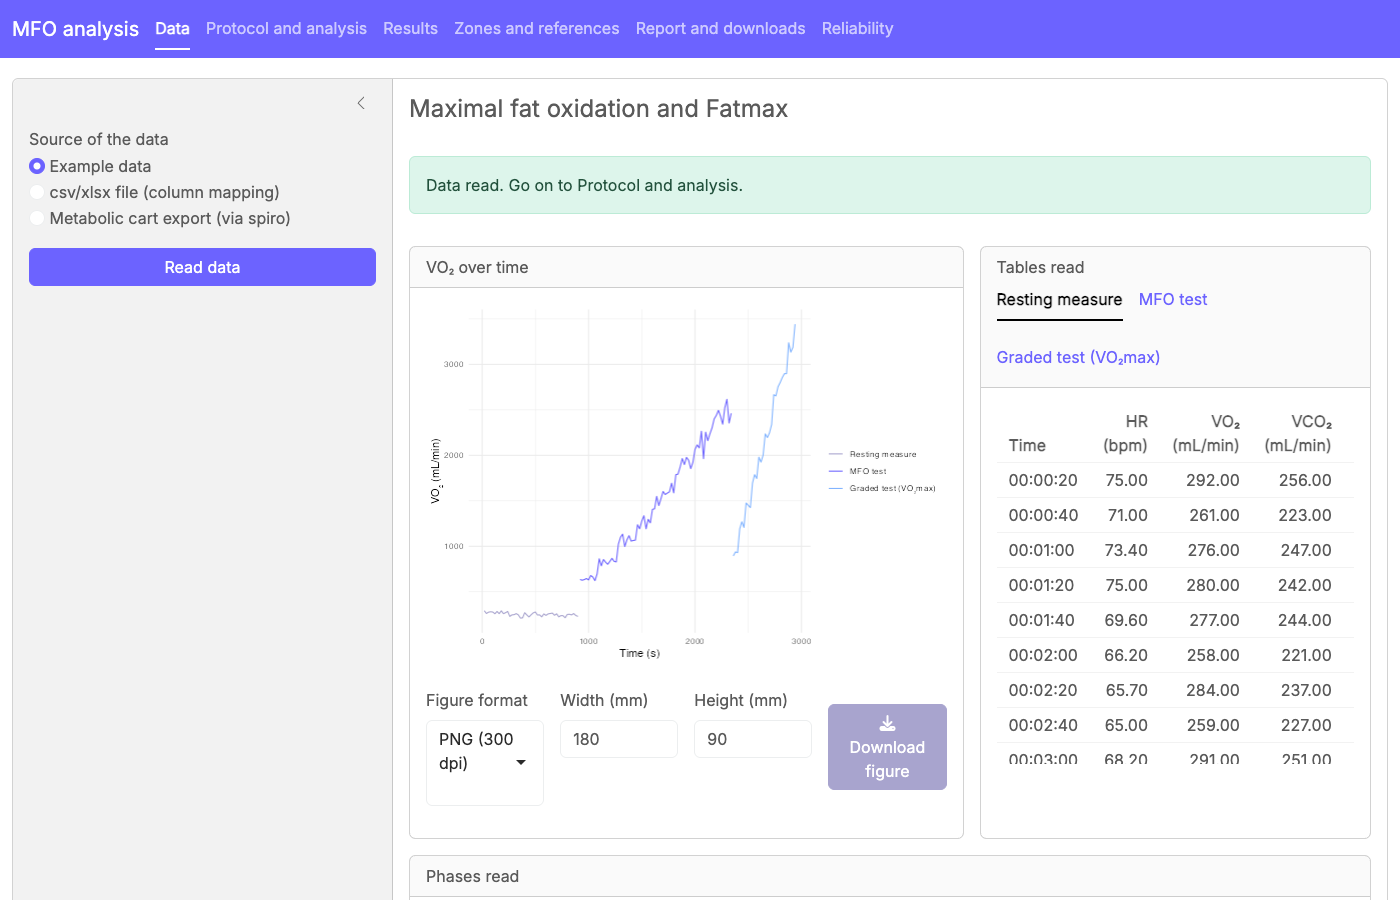
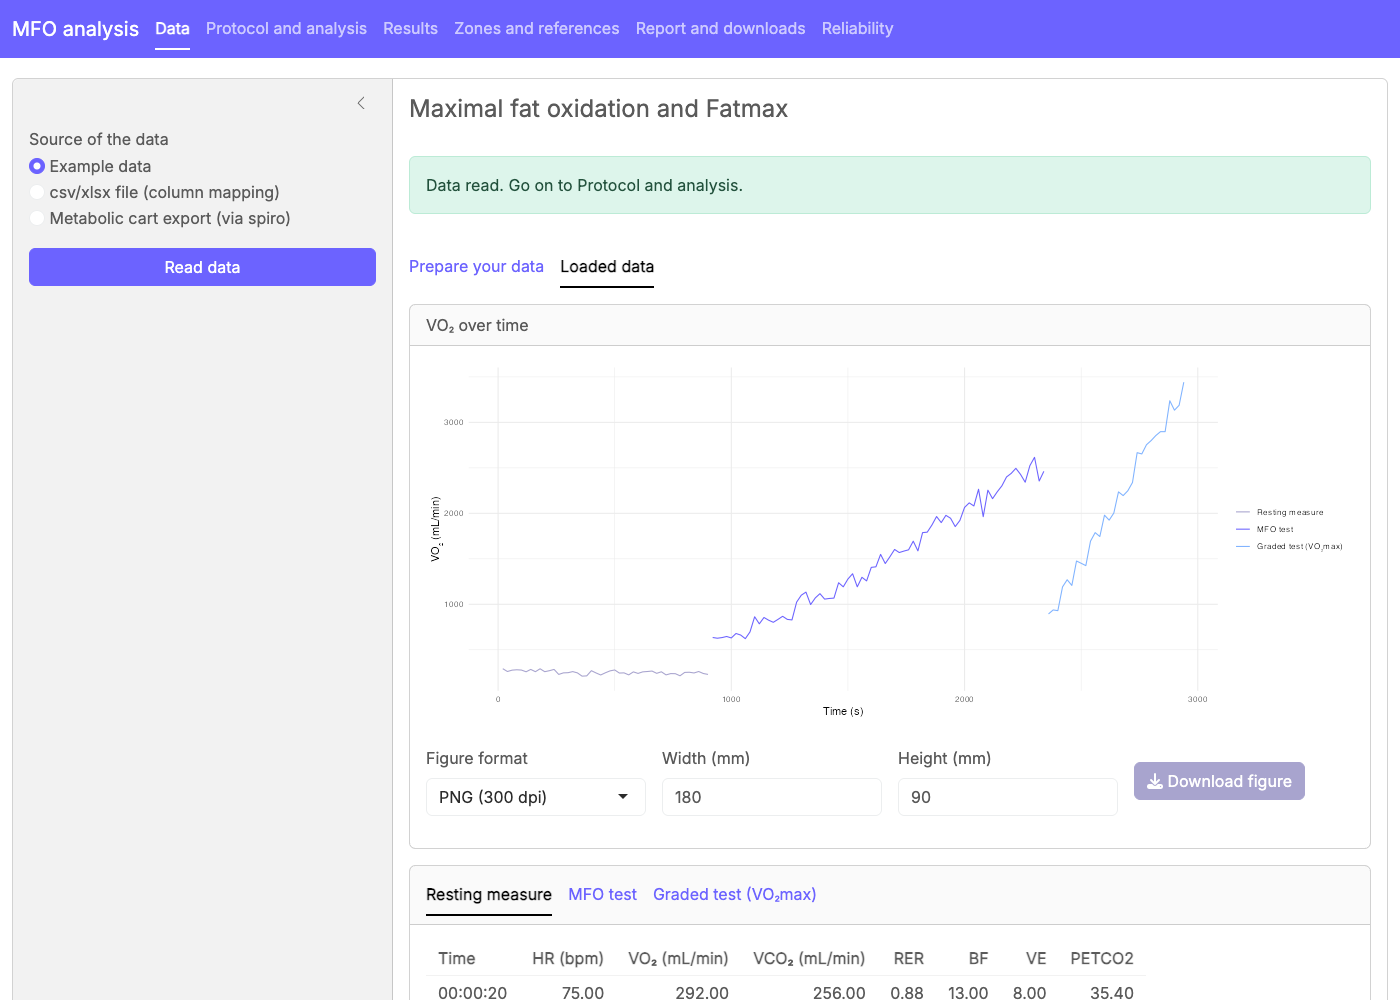
docs: manual and vignette for Prepare your data, Loaded data and Reliability
The manual explains the two tabs of Data, the three ways to bring data in
and the templates, and the required columns of an uploaded results table
in Reliability; its Reliability screenshot uploads a table with only id,
session, MFO and Fatmax. vignette("app"), NEWS and SPEC 10 likewise.
Screenshots regenerated. SPEC 10.

diff --git a/NEWS.md b/NEWS.md
@@ -26,8 +26,10 @@
   column per language, so a translation is one more column). The navbar reads "MFO analysis". The Data tab: example
   data, csv/xlsx files with column mapping or analyser exports (several
   files or a zip), phases by table or by cuts dragged on the VO2 plot, and
-  every message and warning of the reading shown as an alert, and the tables
-  read shown per phase next to the VO₂ plot. Every plot can be downloaded as
+  every message and warning of the reading shown as an alert, with two tabs:
+  "Prepare your data" (the three ways to bring data in, with an xlsx template of an individual
+  test and a csv template of results) and "Loaded data" (the VO₂ plot and
+  the tables of each phase). Every plot can be downloaded as
   PNG at 300 dpi, PDF or SVG (180 mm wide by default). The Protocol
   and analysis tab sets the arguments of `MFO_protocol()`, `MFO()` and
   `MFO_kinetics()`; the Results tab shows the curve with the steps of the
@@ -46,7 +48,9 @@
   zones and references, alerts, a methods paragraph with its references,
   and a footer with version, commit, dates, phase cuts and seed) and the
   group table as xlsx or csv. The Reliability tab runs `MFO_reliability()`
-  on the group table of the session or on a downloaded one. See
+  on the group table of the session or on an uploaded results table with
+  the columns id, session, MFO and Fatmax (other columns of `MFOs()`
+  optional). See
   `vignette("app")`, the section "Using the app" of the README, and the app
   manual on the website (every option, output and warning).
 
